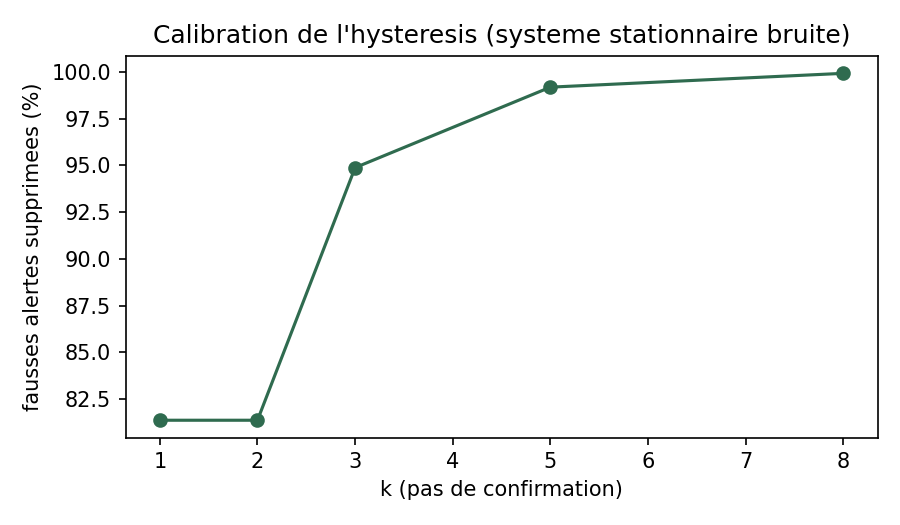
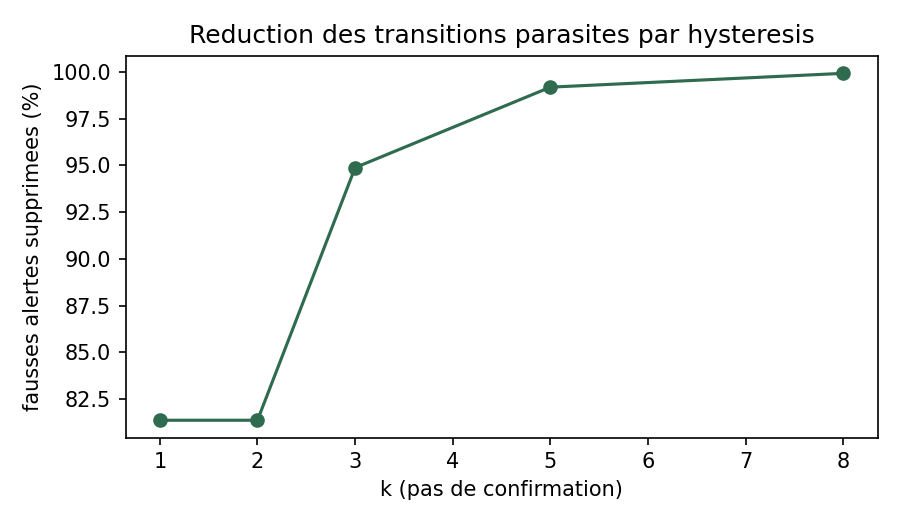
mise à jours

Changed region(s): [[0.1556, 0.0305, 0.9644, 0.0914]]

diff --git a/docs/index.html b/docs/index.html
@@ -76,7 +76,7 @@
           <figure><img src="assets/hysteresis_k.png" alt="Réduction des fausses alertes selon le paramètre d'hystérésis" loading="lazy"><figcaption><strong>Hystérésis</strong><span>Effet du nombre de confirmations sur les transitions parasites.</span></figcaption></figure>
           <figure><img src="assets/cascade.png" alt="Propagation de cascades en fonction du rayon spectral" loading="lazy"><figcaption><strong>Cascades</strong><span>Relation entre couplage, rayon spectral et propagation des ruptures.</span></figcaption></figure>
           <figure><img src="assets/tornado.png" alt="Diagramme de sensibilité de l'indice MCS" loading="lazy"><figcaption><strong>Sensibilité</strong><span>Contribution des incertitudes de mesure à l’incertitude sur M.</span></figcaption></figure>
-          <figure><img src="assets/oscillations.png" alt="Oscillations autour du seuil de remboursement" loading="lazy"><figcaption><strong>Oscillations</strong><span>Dynamique près de la condition de viabilité du remboursement.</span></figcaption></figure>
+          <figure><img src="assets/oscillations.png" alt="Oscillations autour du seuil de remboursement" loading="lazy"><figcaption><strong>Convergence près de μ*</strong><span>Amplitude résiduelle après transitoire ; aucun cycle entretenu détecté dans ce balayage.</span></figcaption></figure>
         </div>
       </div>
     </section>

diff --git a/scripts/run_robustness.py b/scripts/run_robustness.py
@@ -16,6 +16,7 @@ Requiert : pip install -e ".[viz]"
 from __future__ import annotations
 
 import random
+import shutil
 from dataclasses import replace
 from pathlib import Path
 
@@ -36,8 +37,11 @@ from mcs.robustness import (
     sensitivity_tornado,
 )
 
-OUT = Path(__file__).resolve().parent.parent / "reports"
+ROOT = Path(__file__).resolve().parent.parent
+OUT = ROOT / "reports"
+ASSETS = ROOT / "docs" / "assets"
 OUT.mkdir(exist_ok=True)
+ASSETS.mkdir(parents=True, exist_ok=True)
 lines = ["# Rapport de robustesse MCS - Phase 1", ""]
 
 
@@ -80,7 +84,7 @@ for y, _lbl in ((0.30, "viable"), (0.10, "tension"), (0.05, "saturation"), (-0.0
     ax.axhline(y, color="grey", ls=":", lw=0.7)
 ax.set_xlabel("t")
 ax.set_ylabel("M(t)")
-ax.set_title("Degradation lente sous bruit multiplicatif (300 runs)")
+ax.set_title("40 trajectoires affichees parmi 300 simulations")
 ax.legend()
 fig.tight_layout()
 fig.savefig(OUT / "monte_carlo.png", dpi=150)
@@ -102,7 +106,7 @@ fig, ax = plt.subplots(figsize=(6, 3.5))
 ax.plot([r.k for r in recs], [r.suppression * 100 for r in recs], "o-", color="#2f6b4f")
 ax.set_xlabel("k (pas de confirmation)")
 ax.set_ylabel("fausses alertes supprimees (%)")
-ax.set_title("Calibration de l'hysteresis (systeme stationnaire bruite)")
+ax.set_title("Reduction des transitions parasites par hysteresis")
 fig.tight_layout()
 fig.savefig(OUT / "hysteresis_k.png", dpi=150)
 plt.close(fig)
@@ -150,7 +154,7 @@ ax2.bar(
     label="noeuds en (pre-)rupture",
 )
 ax2.set_ylabel("noeuds casses / 3")
-ax1.set_title("Cascade : la bascule suit le seuil rho(J) = 1 (§ 6.4)")
+ax1.set_title("Dette bornee (rho(J) < 1) et viabilite de M sont distinctes (§ 6.4)")
 fig.tight_layout()
 fig.savefig(OUT / "cascade.png", dpi=150)
 plt.close(fig)
@@ -177,31 +181,48 @@ lines += [
     "",
 ]
 
-# 5. Oscillations pres de mu* ---------------------------------------------------
+# 5. Convergence residuelle pres de mu* ---------------------------------------------------
 base = SimConfig(L=0.30, R=0.7, B=0.6, rho=0.9, D_crit=0.6, gamma=1.0)
 C0 = 1.0 * 0.7 * 0.6
 mu_star = viability_repayment_threshold(0.30, 0.7, 0.6, C0)
 mus = [mu_star * f for f in (0.5, 0.8, 0.95, 1.0, 1.05, 1.2, 1.5, 2.0)]
 amps = []
+sign_changes = []
 for mu in mus:
     res = simulate(replace(base, mu0=mu), 200)
-    amps.append(oscillation_score(res.D, burn_in=60)["amplitude"])
+    score = oscillation_score(res.D, burn_in=60)
+    amps.append(score["amplitude"])
+    sign_changes.append(score["sign_changes"])
 fig, ax = plt.subplots(figsize=(6, 3.5))
 ax.plot([m / mu_star for m in mus], amps, "o-", color="#2f6b4f")
 ax.set_xlabel("mu0 / mu*")
-ax.set_ylabel("amplitude residuelle de D")
-ax.set_title("Comportement autour de la condition de viabilite mu* (§ 9.6)")
+ax.set_ylabel("demi-etendue residuelle de D")
+ax.set_title("Convergence residuelle autour de la condition mu* (§ 9.6)")
 fig.tight_layout()
 fig.savefig(OUT / "oscillations.png", dpi=150)
 plt.close(fig)
 lines += [
-    "## Autour de mu*",
+    "## Convergence autour de mu*",
     f"mu* = {mu_star:.3f} au point de fonctionnement. Amplitudes "
     "residuelles de D apres transitoire : "
     + ", ".join(f"{m / mu_star:.2f}x -> {a:.4f}" for m, a in zip(mus, amps, strict=True))
     + ".",
+    "Changements de signe de la derivee apres transitoire : "
+    + ", ".join(str(x) for x in sign_changes)
+    + ". Aucun cycle n'est detecte dans ce balayage ; la figure mesure "
+    "une amplitude residuelle de convergence, pas une oscillation entretenue.",
     "",
 ]
+
+# Keep the public site strictly synchronized with the freshly generated reports.
+for figure_name in (
+    "tornado.png",
+    "monte_carlo.png",
+    "hysteresis_k.png",
+    "cascade.png",
+    "oscillations.png",
+):
+    shutil.copy2(OUT / figure_name, ASSETS / figure_name)
 
 (OUT / "robustesse.md").write_text("\n".join(lines), encoding="utf-8")
 

diff --git a/scripts/build_figure_manifest.py b/scripts/build_figure_manifest.py
@@ -1,0 +1,58 @@
+"""Build a provenance manifest for every public result figure.
+
+The manifest records the generator, SHA-256 digest, and verifies that the
+public GitHub Pages asset is byte-for-byte identical to the report output.
+"""
+from __future__ import annotations
+
+import hashlib
+import json
+from pathlib import Path
+
+ROOT = Path(__file__).resolve().parent.parent
+REPORTS = ROOT / "reports"
+ASSETS = ROOT / "docs" / "assets"
+
+FIGURES = {
+    "benchmark.png": "scripts/run_benchmark.py",
+    "monte_carlo.png": "scripts/run_robustness.py",
+    "hysteresis_k.png": "scripts/run_robustness.py",
+    "cascade.png": "scripts/run_robustness.py",
+    "tornado.png": "scripts/run_robustness.py",
+    "oscillations.png": "scripts/run_robustness.py",
+    "irreversibilite.png": "scripts/run_demo_dossier.py",
+    "carte_regime.png": "scripts/run_demo_dossier.py",
+}
+
+
+def sha256(path: Path) -> str:
+    return hashlib.sha256(path.read_bytes()).hexdigest()
+
+
+def main() -> None:
+    records = []
+    for name, generator in FIGURES.items():
+        report = REPORTS / name
+        public = ASSETS / name
+        if not report.exists() or not public.exists():
+            raise FileNotFoundError(f"figure manquante: {name}")
+        report_hash = sha256(report)
+        public_hash = sha256(public)
+        if report_hash != public_hash:
+            raise RuntimeError(f"figure publique désynchronisée: {name}")
+        records.append(
+            {
+                "figure": name,
+                "generator": generator,
+                "report_sha256": report_hash,
+                "public_sha256": public_hash,
+                "byte_identical": True,
+            }
+        )
+    out = REPORTS / "figures_manifest.json"
+    out.write_text(json.dumps({"figures": records}, indent=2), encoding="utf-8")
+    print(f"{out}: {len(records)} figures vérifiées")
+
+
+if __name__ == "__main__":
+    main()

diff --git a/scripts/run_benchmark.py b/scripts/run_benchmark.py
@@ -36,20 +36,28 @@ colors = [
     "#2f6b4f" if n == "mcs_complet" else ("#b8892b" if n.startswith("mcs_") else "#9aa5a0")
     for n in names
 ]
-fig, ax = plt.subplots(figsize=(8, 4.6))
+fig, ax = plt.subplots(figsize=(9.2, 4.8))
 bars = ax.barh(names, leads, color=colors)
+max_lead = max(leads, default=1.0)
+# Reserve a dedicated right-hand annotation zone so sensitivity labels
+# never leave the plotting area, even for the longest bar.
+ax.set_xlim(0, max_lead + 4.2)
 for b, s in zip(bars, sens, strict=True):
     ax.text(
-        b.get_width() + 0.25,
+        min(b.get_width() + 0.25, max_lead + 3.15),
         b.get_y() + b.get_height() / 2,
         f"sens. {s:.2f}",
         va="center",
         fontsize=8,
         color="#65726d",
     )
-ax.set_xlabel("delai median d'alerte (pas) - FPR cible identique 10 %")
+ax.set_xlabel(
+    "avance mediane avant evenement (pas, parmi les evenements detectes)\n"
+    "seuils calibres vers un FPR cible commun de 10 %"
+)
 ax.set_title(
-    f"Benchmark aveugle : {res.n_validation} trajectoires de validation, parametres pre-enregistres"
+    f"Benchmark aveugle — {res.n_validation} trajectoires de validation\n"
+    "parametres fixes avant evaluation"
 )
 fig.tight_layout()
 fig.savefig(OUT / "benchmark.png", dpi=150)

diff --git a/src/mcs/__init__.py b/src/mcs/__init__.py
@@ -79,7 +79,7 @@ from .robustness import (
 )
 from .simulator import SimConfig, SimResult, simulate
 
-__version__ = "0.6.0"
+__version__ = "0.6.1"
 __all__ = [
     "DEFAULT_THRESHOLDS",
     "HysteresisClassifier",

diff --git a/reports/robustesse.md b/reports/robustesse.md
@@ -31,5 +31,6 @@ k = 3 (defaut) supprime deja 95% des fausses alertes ; le cout est le delai de d
 
 Le verdict spectral (exact) raffine la condition de somme de ligne du noyau, qui n'est qu'une majoration. Nuance importante revelee par le balayage : rho(J) < 1 garantit une dette BORNEE, pas une marge viable - entre les deux seuils (ici couplage 0.1-0.2), la dette converge vers un niveau de repos assez haut pour casser les noeuds. La stabilite de la carte de dette et la viabilite de M sont deux questions distinctes.
 
-## Autour de mu*
+## Convergence autour de mu*
 mu* = 0.300 au point de fonctionnement. Amplitudes residuelles de D apres transitoire : 0.50x -> 0.0005, 0.80x -> 0.0007, 0.95x -> 0.0008, 1.00x -> 0.0009, 1.05x -> 0.0009, 1.20x -> 0.0011, 1.50x -> 0.0000, 2.00x -> 0.0000.
+Changements de signe de la derivee apres transitoire : 0, 0, 0, 0, 0, 0, 0, 0. Aucun cycle n'est detecte dans ce balayage ; la figure mesure une amplitude residuelle de convergence, pas une oscillation entretenue.

diff --git a/CHANGELOG.md b/CHANGELOG.md
@@ -1,5 +1,15 @@
 # Changelog
 
+
+## [0.6.1] - 2026-07-10
+
+### Corrige
+- réserve une zone d’annotation dans la figure du benchmark afin que les sensibilités ne dépassent plus à droite ;
+- précise que le délai médian du benchmark est conditionnel aux événements effectivement détectés ;
+- précise que la figure Monte Carlo affiche 40 trajectoires visuelles parmi 300 simulations évaluées ;
+- corrige le titre du graphique réseau : `rho(J) < 1` garantit une dette bornée, pas nécessairement une marge viable ;
+- renomme la figure « Oscillations » en « Convergence près de μ* » : aucun changement de signe n’est détecté après transitoire dans ce balayage.
+
 ## 0.6.0 — 2026-07-10
 
 Mise à jour de consolidation méthodologique et de la GitHub Pages.
